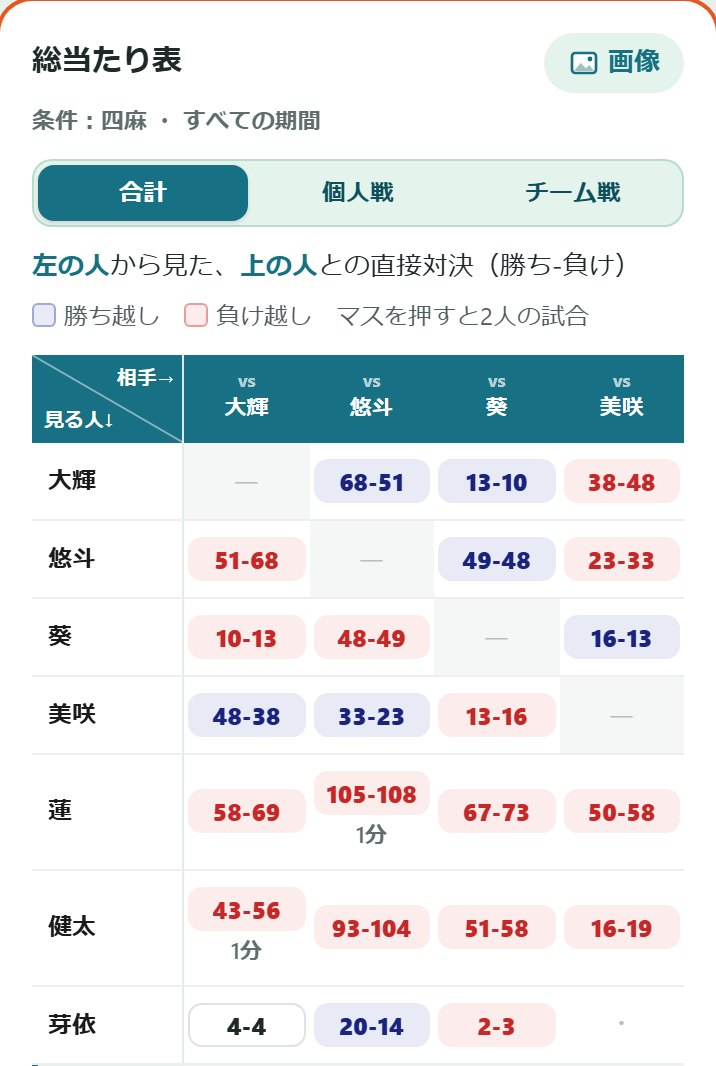
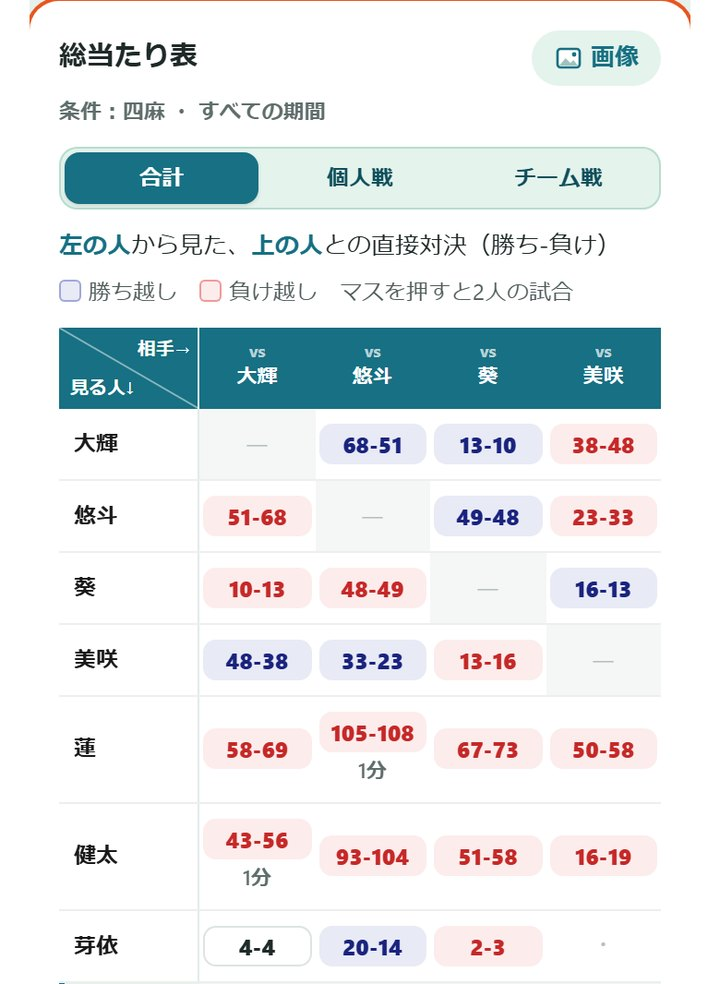
LP「実際の画面で見る。」をスマホ1台の中でタブで切り替える形に（並べると縮尺の違いが目立つため）。画像はすべて同じ縮尺にそろえた

diff --git a/tools/shoot_lp_screens.py b/tools/shoot_lp_screens.py
@@ -97,11 +97,17 @@ with sync_playwright() as p:
     br.close()
 srv.shutdown()
 
-# サイト用（幅720の JPEG）
+# サイト用（幅720の JPEG）。すべて同じ縮尺にする＝画面の幅（390px×2倍＝780）のキャンバスに置いてから720に縮める
+# （撮った要素の幅はまちまちなので、幅を合わせて引き伸ばすと縮尺がそろわない。2026-10-26 ユーザーの指摘）
 from PIL import Image
+W = 780
 for name, path, cut in shots:
     im = Image.open(path).convert("RGB")
-    if im.width > 720:
-        im = im.resize((720, round(im.height * 720 / im.width)), Image.LANCZOS)
+    bg = im.getpixel((2, im.height - 3))
+    if im.width < W:
+        c = Image.new("RGB", (W, im.height), bg); c.paste(im, ((W - im.width) // 2, 0)); im = c
+    elif im.width > W:
+        im = im.crop(((im.width - W) // 2, 0, (im.width - W) // 2 + W, im.height))
+    im = im.resize((720, round(im.height * 720 / W)), Image.LANCZOS)
     im.save(os.path.join(SITE, "lp-" + name + ".jpg"), quality=86, optimize=True, progressive=True)
 print("saved", [s[0] for s in shots])

diff --git a/docs/lp-spec.md b/docs/lp-spec.md
@@ -15,7 +15,7 @@
 3. 3ステップ「必要なものはスマホのみ。」（薄青）
 4. 比較表「手書きのスコア表は、もう卒業。」（薄緑）
 5. 特徴カルーセル「スマホ1台で、ここまでできる。」（白）
-5b. **実際の画面「実際の画面で見る。」（薄青・2026-10-26 撮り直し）**: ユーザーの仲間ページ（しぐまちゅーたーず）の**実際の数字**で撮った5枚（表彰台の通算順位・ある月の試合・総当たり表・メンバーの成績・自分の成績）を横スクロールのカード（`.lp-shots`）で。**人の名前とグループ名は置きかえ**（短い名前＝画面で切れない）、下に「実際の仲間ページの記録です（人の名前とグループ名は置きかえています）」。画面は切らずに全部見せる（高さをそろえた色の枠に縮めて入れる。以前は高さ240pxで下を切っていた）。撮り方は `python tools/shoot_lp_screens.py <名前を置きかえたデータ.json>`（スタブ・本番に触れない。データはリポジトリに入れない。段取りは tools/shoot_lp_screens_plan.py）
+5b. **実際の画面「実際の画面で見る。」（薄青・2026-10-26 撮り直し）**: ユーザーの仲間ページ（しぐまちゅーたーず）の**実際の数字**で撮った5枚（表彰台の通算順位・ある月の試合・総当たり表・メンバーの成績・自分の成績）を、**スマホ1台の枠の中でタブで切り替える形**（`.lp-demo`。2026-10-26 カードを並べると画像ごとに縮尺が違って見えて気持ち悪い、というユーザーの指摘で変更）で。押されるまでは5秒ごとに次へ（画面に見えているときだけ・動きを減らす設定なら止める）。画面の中はスクロールできる。PCは左にスマホ・右に説明つきのタブ。**画像はすべて同じ縮尺**（390px幅の画面＝780pxのキャンバスに置いてから720pxに。引き伸ばさない）。**人の名前とグループ名は置きかえ**（短い名前＝画面で切れない）、下に「実際の仲間ページの記録です（人の名前とグループ名は置きかえています）」。撮り方は `python tools/shoot_lp_screens.py <名前を置きかえたデータ.json>`（スタブ・本番に触れない。データはリポジトリに入れない。段取りは tools/shoot_lp_screens_plan.py）
 6. クロージング「麻雀のスコア記録は、まじゃすこで。」（薄緑）→ 読みもの「もっと詳しく」→ **お知らせ（新しい3本）** → lp_bottom広告枠。読みものとお知らせは、ブログの一覧と同じく左に記事の絵（assets/thumbs/・.read-list.rl-cards）。新しい記事を載せるときは make_thumbs.py の絵も作る
 7. フッター（緑・2列リンク: score-basics.html/faq.html/ブログ/お知らせ/RSS/規約/PP/X/問い合わせ。
    **「使い方」リンクは置かない**＝ヘッダー右上の「使い方」と重複するため。blog-site.jsのrenderChromeも同じ）
